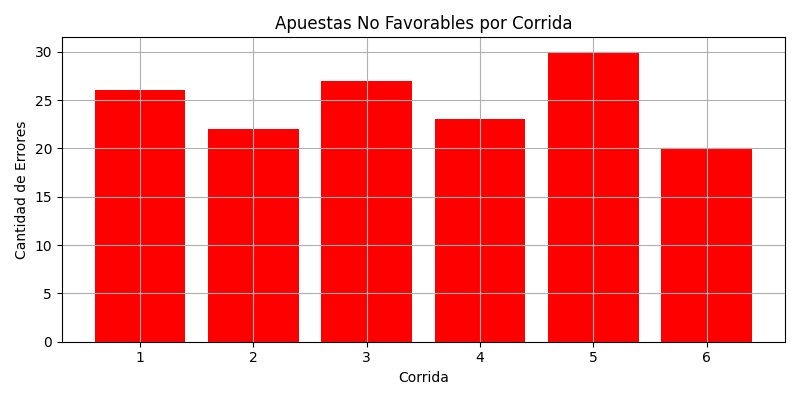
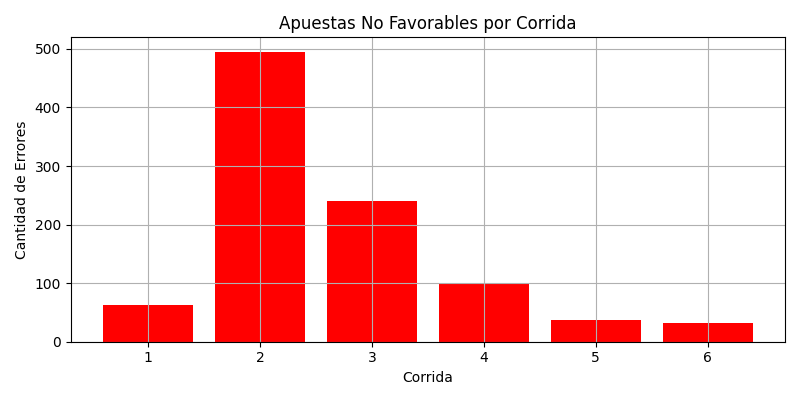
Listo

diff --git a/1.2/ruleta.py b/1.2/ruleta.py
@@ -61,20 +61,22 @@ def apostar(tipo_apuesta, valor_apuesta, saldo, capital_infinito, estrategia, hi
     bancarrota = False
     aciertos = 0  # apuestas ganadas
     no_aciertos = 0  # apuestas perdidas
-
+    print(f"Saldo inicial: {saldo}")
+    print('--- Apuestas ---')
     while ronda < len(historial):
         numero, color = historial[ronda]
         gano = resolver_apuesta(tipo_apuesta, valor_apuesta, numero, color)
-        saldo -= apuesta_actual
-
+        print(f'apuesta: {apuesta_actual}')
+        saldo -= float(apuesta_actual)
+        print(f'apuesta: {apuesta_actual}, saldo: {saldo}, tirada: {numero}, color: {color}, gano: {gano}')
         if gano:
             aciertos += 1 # contar la favorable
             if tipo_apuesta == "numero":
-                saldo += apuesta_actual * 35
-            elif tipo_apuesta == "docena":
-                saldo += apuesta_actual * 2
+                saldo += apuesta_actual * 36
+            elif tipo_apuesta in ["docena", "fila"]:
+                saldo += apuesta_actual * 3
             else:
-                saldo += apuesta_actual
+                saldo += apuesta_actual * 2
 
             if estrategia == 'd':
                 apuesta_actual = max(apuesta_actual - 1, 1)
@@ -84,6 +86,8 @@ def apostar(tipo_apuesta, valor_apuesta, saldo, capital_infinito, estrategia, hi
                 else:
                     fibonacci_seq.append(fibonacci_seq[-1] + fibonacci_seq[-2])
                 apuesta_actual = fibonacci_seq[-1]
+            elif estrategia == 'm':
+                apuesta_actual = apuesta_base
         else:
             no_aciertos += 1  # contar la no favorable
             if estrategia == 'm':
@@ -95,11 +99,13 @@ def apostar(tipo_apuesta, valor_apuesta, saldo, capital_infinito, estrategia, hi
                     fibonacci_seq = [1, 1]
                 else:
                     fibonacci_seq.append(fibonacci_seq[-1] + fibonacci_seq[-2])
-                apuesta_actual = fibonacci_seq[-1]
+                apuesta_actual = fibonacci_seq[-1] 
+            
 
+        print(saldo)
         saldo_historial.append(saldo)
 
-        if not capital_infinito and saldo <= 0:
+        if capital_infinito=='f' and saldo <= 0:
             bancarrota = True
             break
 
@@ -130,19 +136,28 @@ def graficar_no_favorables(no_aciertos_por_corrida):
     plt.savefig("apuestas_no_favorables.png")
     plt.show()
 
-def graficar_saldos_por_tirada(saldos_por_corrida):
-    plt.figure(figsize=(10, 6))
+def graficar_saldos_por_tirada(saldos_por_corrida,capital_infinito):
+    # plt.figure(figsize=(10, 6))
+
     for i, saldo_historial in enumerate(saldos_por_corrida, start=1):
-        plt.plot(saldo_historial, label=f"Corrida {i}")
-    plt.title("Evolución del Saldo por Tirada en Cada Corrida")
+        saldo_inicial = saldo_historial[0] if saldo_historial else 0
+        if saldo_inicial != 0:
+            saldo_relativo = [s - saldo_inicial for s in saldo_historial]
+        else:
+            saldo_relativo = saldo_historial 
+        plt.plot(saldo_relativo, label=f"Corrida {i}")
+
+    plt.axhline(y = -200, color='red', linestyle='--', label='Bancarrota') if capital_infinito == 'f' else None
+    plt.title("Evolución del Saldo Relativo por Tirada en Cada Corrida")
     plt.xlabel("Tirada")
-    plt.ylabel("Saldo")
-    plt.legend()
+    plt.ylabel("Cambio de Saldo (relativo al inicial)")
+    plt.legend(loc='upper left')
     plt.grid(True)
     plt.tight_layout()
-    plt.yscale("log")
-    plt.savefig("saldos_por_tirada.png")
+    plt.savefig("saldos_por_tirada_relativo.png")
     plt.show()
+
+
 
 
 def generar_historial(n):
@@ -195,7 +210,7 @@ if __name__ == "__main__":
 
     for corrida in range(1, args.c + 1):
         historial = generar_historial(args.n)
-        saldo = 200 if not capital_infinito else 100000
+        saldo = 200 if capital_infinito == 'f' else 10000
         saldo_historial, bancarrota, aciertos, no_aciertos = apostar(tipo_apuesta, valor_apuesta, saldo, capital_infinito, estrategia, historial)
         saldos_por_corrida.append(saldo_historial)
         if bancarrota:
@@ -206,7 +221,7 @@ if __name__ == "__main__":
         apuestas_favorables.append(aciertos)
         historial_completo.extend(historial)
 
-    graficar_saldos_por_tirada(saldos_por_corrida)
+    graficar_saldos_por_tirada(saldos_por_corrida, capital_infinito)
     graficar_apuestas_favorables(apuestas_favorables)
     graficar_no_favorables(apuestas_no_favorables)
 
